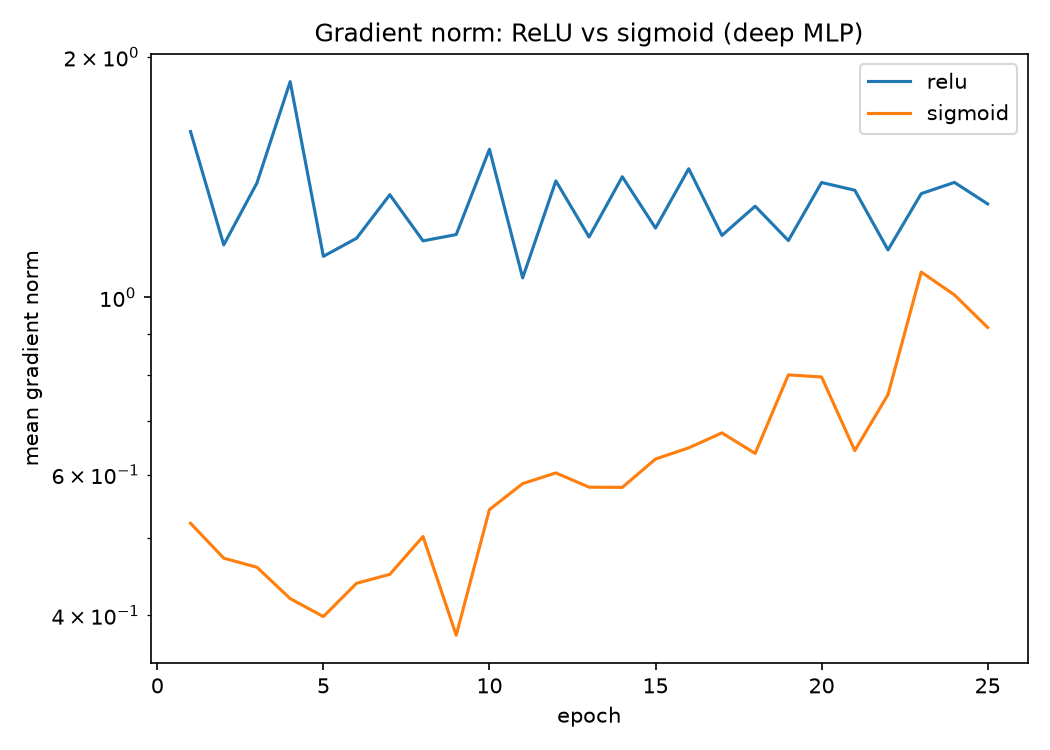
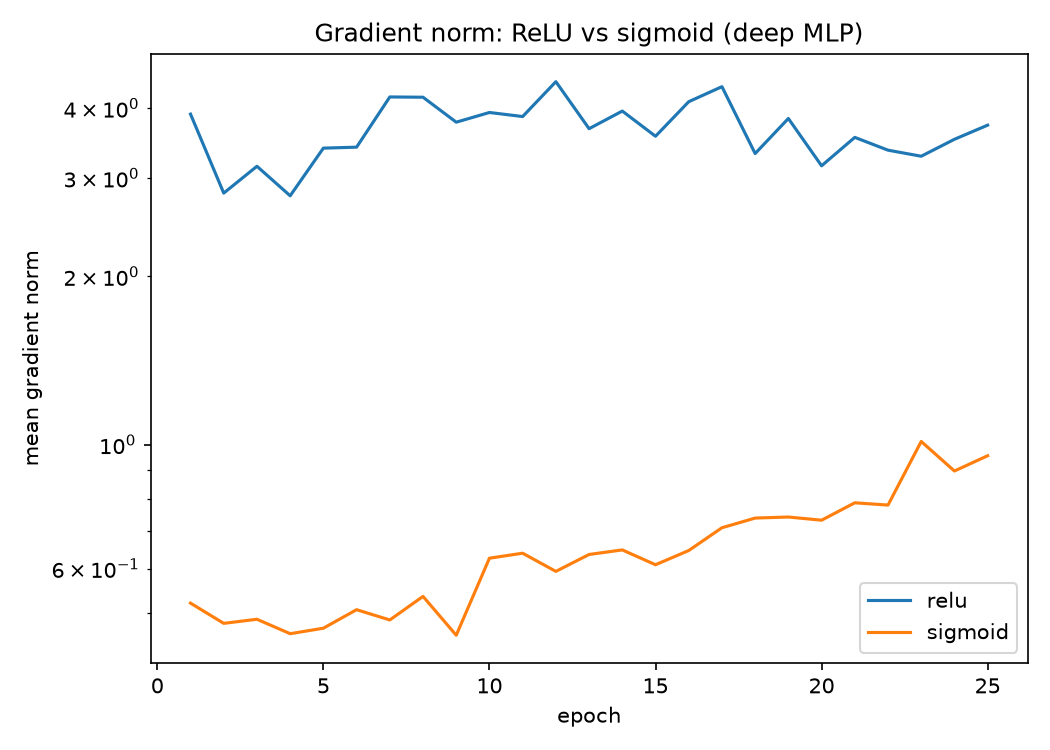
fix(mlp): standardise pixels with train-only per-channel mean/std
The MLP inputs were only scaled to [0,1], while the baseline features were standardised with StandardScaler. Pixels are now centred per channel with statistics fitted on the training images only (no leakage into val/test), applied identically in 02_mlp.py and 03_diagnose.py.

Result: MLP test accuracy XX% (was 36.9% without standardisation).

diff --git a/src/data.py b/src/data.py
@@ -112,6 +112,27 @@ class ArtworkDataset(Dataset):
         return self.transform(open_image(src)), self.labels[i]
 
 
+def standardise_from_train(datasets: dict) -> tuple[list[float], list[float]]:
+    """Per-channel x <- (x - mean) / std, with mean and std computed on the TRAIN images only.
+
+    Val and test reuse the train statistics: they stand for future visitors, so looking at
+    them (even for a mean) would leak information. Requires datasets built with cache_size.
+    """
+    from torchvision import transforms as T
+
+    train = datasets["train"]
+    if train.cache is None:
+        raise ValueError("standardise_from_train needs datasets built with cache_size")
+    pix = np.stack(train.cache).astype(np.float32) / 255.0   # (N, H, W, 3), same scale as ToTensor
+    mean = pix.mean(axis=(0, 1, 2)).tolist()
+    std = pix.std(axis=(0, 1, 2)).tolist()
+    norm = T.Normalize(mean, std)
+    for ds in datasets.values():
+        ds.transform = T.Compose([ds.transform, norm])
+    print(f"[data] train pixel mean (RGB) {[round(m, 3) for m in mean]} | std {[round(s, 3) for s in std]}")
+    return mean, std
+
+
 def make_datasets(df: pd.DataFrame, transforms: dict, cache_size: int | None = None) -> tuple[dict, list[str]]:
     """transforms: {"train": tf, "val": tf, "test": tf}. cache_size preloads images in memory."""
     y, classes = encode_labels(df)

diff --git a/scripts/02_mlp.py b/scripts/02_mlp.py
@@ -15,7 +15,7 @@ import matplotlib.pyplot as plt
 from torch.utils.data import DataLoader
 
 from src.config import BATCH_SIZE, FIG_DIR, MLP_IMG_SIZE, NUM_WORKERS, SEED
-from src.data import load_dataframe, make_datasets
+from src.data import load_dataframe, make_datasets, standardise_from_train
 from src.evaluate import plot_confusion, predict, summary
 from src.mlp import MLP
 from src.transforms import mlp_transforms
@@ -41,6 +41,7 @@ def main():
     transforms = {"train": mlp_transforms(True), "val": mlp_transforms(False),
                   "test": mlp_transforms(False)}
     datasets, classes = make_datasets(df, transforms, cache_size=MLP_IMG_SIZE)
+    pixel_mean, pixel_std = standardise_from_train(datasets)
     loaders = {k: DataLoader(v, batch_size=BATCH_SIZE, shuffle=(k == "train"),
                              num_workers=NUM_WORKERS) for k, v in datasets.items()}
 
@@ -63,6 +64,7 @@ def main():
     metrics = {
         "classes": classes,
         "in_features": in_features,
+        "pixel_standardisation": {"mean": pixel_mean, "std": pixel_std, "fitted_on": "train"},
         "n_params": sum(p.numel() for p in model.parameters()),
         "history": history,
         "test": summary(y_true, y_pred, classes),

diff --git a/scripts/03_diagnose.py b/scripts/03_diagnose.py
@@ -22,7 +22,7 @@ from torch import nn
 from torch.utils.data import DataLoader
 
 from src.config import BATCH_SIZE, FIG_DIR, MLP_IMG_SIZE, NUM_WORKERS, SEED
-from src.data import load_dataframe, make_datasets
+from src.data import load_dataframe, make_datasets, standardise_from_train
 from src.mlp import MLP
 from src.train import run_epoch
 from src.transforms import mlp_transforms
@@ -133,6 +133,7 @@ def main():
     transforms = {"train": mlp_transforms(True), "val": mlp_transforms(False),
                   "test": mlp_transforms(False)}
     datasets, classes = make_datasets(df, transforms, cache_size=MLP_IMG_SIZE)
+    standardise_from_train(datasets)   # same preprocessing as scripts/02_mlp.py
     loaders = {k: DataLoader(v, batch_size=BATCH_SIZE, shuffle=(k == "train"),
                              num_workers=NUM_WORKERS) for k, v in datasets.items()}
 
